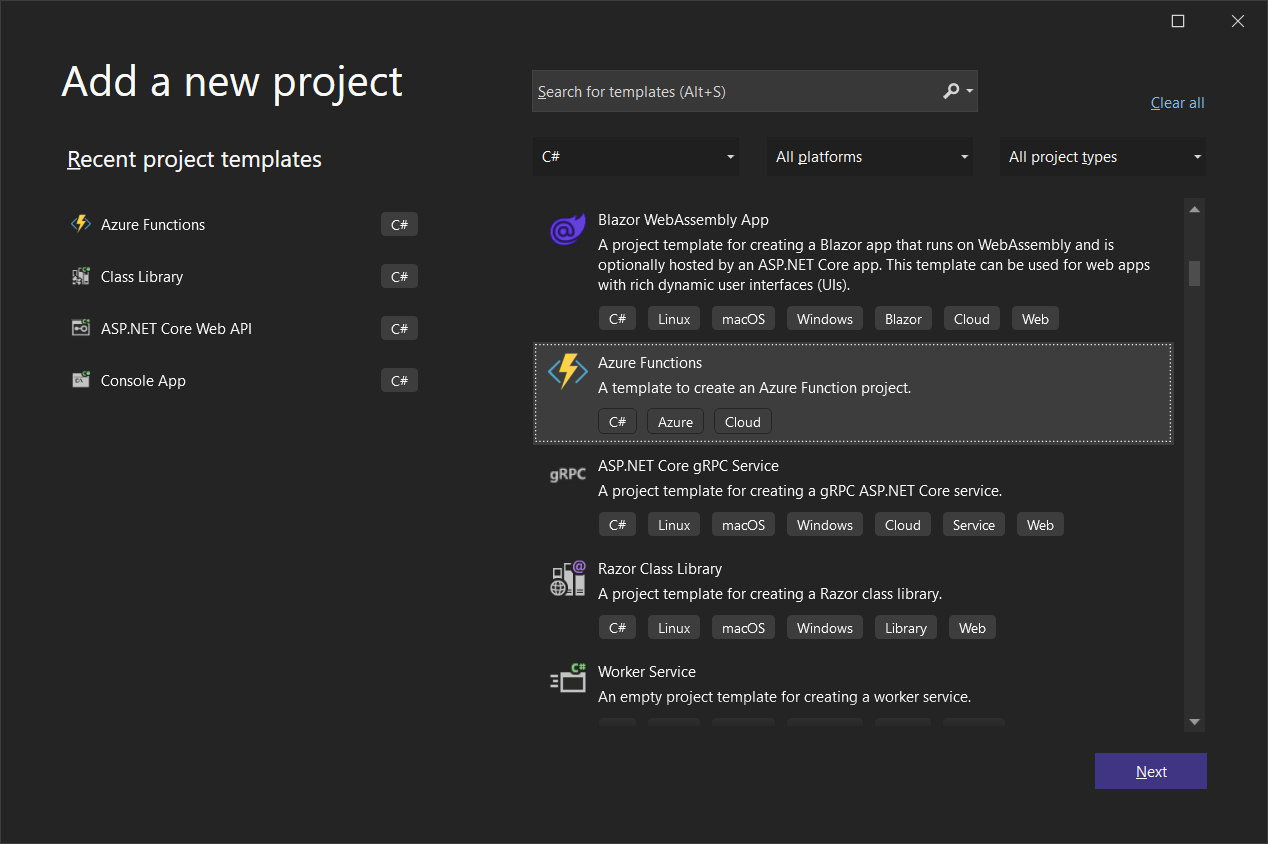
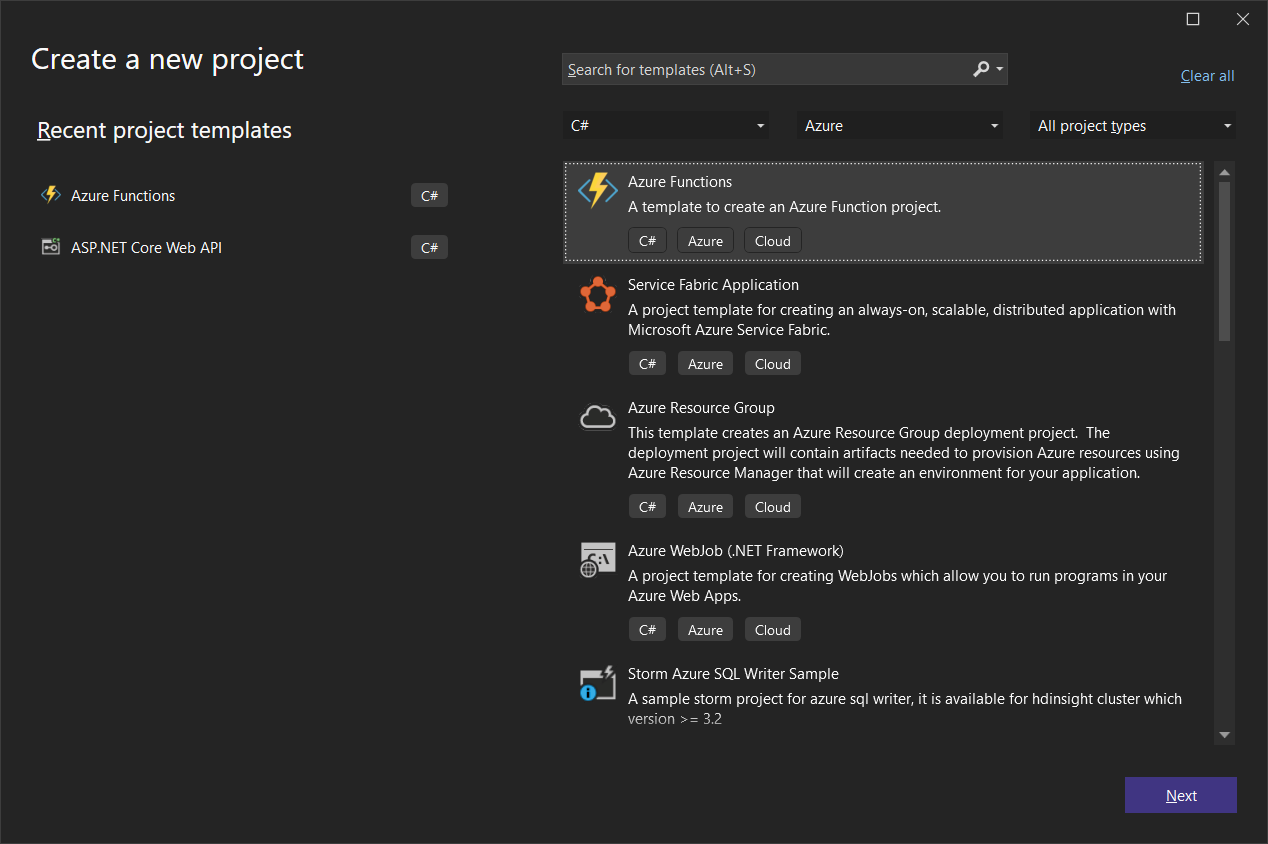
docs

diff --git a/CommandQuery.AzureFunctions.md b/CommandQuery.AzureFunctions.md
@@ -11,8 +11,8 @@
 
 0. Install **Azure development** workload in Visual Studio
    * [Prerequisites](https://docs.microsoft.com/en-us/azure/azure-functions/functions-develop-vs?tabs=in-process#prerequisites)
-1. Create a new **Azure Functions** project
-   * [Tutorial](https://docs.microsoft.com/en-us/azure/azure-functions/functions-create-your-first-function-visual-studio)
+1. Create a new **Azure Functions** (_isolated worker process_) project
+   * [Tutorial](https://learn.microsoft.com/en-us/azure/azure-functions/dotnet-isolated-process-guide)
 2. Install the `CommandQuery.AzureFunctions` package from [NuGet](https://www.nuget.org/packages/CommandQuery.AzureFunctions/)
    * `PM>` `Install-Package CommandQuery.AzureFunctions`
 3. Create functions
@@ -26,17 +26,16 @@
 
 ![Add a new project - Azure Functions](https://github.com/hlaueriksson/CommandQuery/raw/master/vs-new-project-azure-functions-1.png)
 
+![Create a new Azure Functions Application](https://github.com/hlaueriksson/CommandQuery/raw/master/vs-new-project-azure-functions-2.png)
+
 Choose:
 
-* .NET 6 Isolated
+* .NET 6.0 Isolated (Long Term Support)
 * Http trigger
-
-![Create a new Azure Functions Application](https://github.com/hlaueriksson/CommandQuery/raw/master/vs-new-project-azure-functions-2.png)
 
 ## Commands
 
 ```cs
-using System.Threading.Tasks;
 using CommandQuery.AzureFunctions;
 using Microsoft.Azure.Functions.Worker;
 using Microsoft.Azure.Functions.Worker.Http;
@@ -57,7 +56,7 @@ namespace CommandQuery.Sample.AzureFunctions.V6
 
         [Function("Command")]
         public async Task<HttpResponseData> Run([HttpTrigger(AuthorizationLevel.Anonymous, "post", Route = "command/{commandName}")] HttpRequestData req, FunctionContext executionContext, string commandName) =>
-            await _commandFunction.HandleAsync(commandName, req, _logger);
+            await _commandFunction.HandleAsync(commandName, req, _logger, executionContext.CancellationToken);
     }
 }
 ```
@@ -75,7 +74,6 @@ Commands with result:
 ## Queries
 
 ```cs
-using System.Threading.Tasks;
 using CommandQuery.AzureFunctions;
 using Microsoft.Azure.Functions.Worker;
 using Microsoft.Azure.Functions.Worker.Http;
@@ -96,7 +94,7 @@ namespace CommandQuery.Sample.AzureFunctions.V6
 
         [Function("Query")]
         public async Task<HttpResponseData> Run([HttpTrigger(AuthorizationLevel.Anonymous, "get", "post", Route = "query/{queryName}")] HttpRequestData req, FunctionContext executionContext, string queryName) =>
-            await _queryFunction.HandleAsync(queryName, req, _logger);
+            await _queryFunction.HandleAsync(queryName, req, _logger, executionContext.CancellationToken);
     }
 }
 ```
@@ -113,7 +111,7 @@ namespace CommandQuery.Sample.AzureFunctions.V6
 Configuration in `Program.cs`:
 
 ```cs
-using System.Text.Json;
+using CommandQuery;
 using CommandQuery.AzureFunctions;
 using CommandQuery.Sample.Contracts.Commands;
 using CommandQuery.Sample.Contracts.Queries;
@@ -123,37 +121,31 @@ using CommandQuery.Sample.Handlers.Queries;
 using Microsoft.Extensions.DependencyInjection;
 using Microsoft.Extensions.Hosting;
 
-namespace CommandQuery.Sample.AzureFunctions.V6
+var host = new HostBuilder()
+    .ConfigureFunctionsWorkerDefaults()
+    .ConfigureServices(ConfigureServices)
+    .Build();
+
+// Validation
+host.Services.GetService<ICommandProcessor>()!.AssertConfigurationIsValid();
+host.Services.GetService<IQueryProcessor>()!.AssertConfigurationIsValid();
+
+host.Run();
+
+public static partial class Program
 {
-    public class Program
+    public static void ConfigureServices(IServiceCollection services)
     {
-        public static void Main()
-        {
-            var host = new HostBuilder()
-                .ConfigureFunctionsWorkerDefaults()
-                .ConfigureServices(ConfigureServices)
-                .Build();
+        services
+            //.AddSingleton(new JsonSerializerOptions(JsonSerializerDefaults.Web));
 
-            // Validation
-            host.Services.GetService<ICommandProcessor>().AssertConfigurationIsValid();
-            host.Services.GetService<IQueryProcessor>().AssertConfigurationIsValid();
+            // Add commands and queries
+            .AddCommandFunction(typeof(FooCommandHandler).Assembly, typeof(FooCommand).Assembly)
+            .AddQueryFunction(typeof(BarQueryHandler).Assembly, typeof(BarQuery).Assembly)
 
-            host.Run();
-        }
-
-        public static void ConfigureServices(IServiceCollection services)
-        {
-            services
-                //.AddSingleton(new JsonSerializerOptions(JsonSerializerDefaults.Web));
-
-                // Add commands and queries
-                .AddCommandFunction(typeof(FooCommandHandler).Assembly, typeof(FooCommand).Assembly)
-                .AddQueryFunction(typeof(BarQueryHandler).Assembly, typeof(BarQuery).Assembly)
-
-                // Add handler dependencies
-                .AddTransient<IDateTimeProxy, DateTimeProxy>()
-                .AddTransient<ICultureService, CultureService>();
-        }
+            // Add handler dependencies
+            .AddTransient<IDateTimeProxy, DateTimeProxy>()
+            .AddTransient<ICultureService, CultureService>();
     }
 }
 ```
@@ -302,7 +294,5 @@ namespace CommandQuery.Sample.AzureFunctions.V6.Tests
 
 ## Samples
 
-* [CommandQuery.Sample.AzureFunctions.V3](https://github.com/hlaueriksson/CommandQuery/tree/master/samples/CommandQuery.Sample.AzureFunctions.V3)
-* [CommandQuery.Sample.AzureFunctions.V3.Tests](https://github.com/hlaueriksson/CommandQuery/tree/master/samples/CommandQuery.Sample.AzureFunctions.V3.Tests)
 * [CommandQuery.Sample.AzureFunctions.V6](https://github.com/hlaueriksson/CommandQuery/tree/master/samples/CommandQuery.Sample.AzureFunctions.V6)
 * [CommandQuery.Sample.AzureFunctions.V6.Tests](https://github.com/hlaueriksson/CommandQuery/tree/master/samples/CommandQuery.Sample.AzureFunctions.V6.Tests)

diff --git a/CommandQuery.AWSLambda.md b/CommandQuery.AWSLambda.md
@@ -26,23 +26,22 @@
 
 ![New Project - AWS Serverless Application (.NET Core - C#)](https://github.com/hlaueriksson/CommandQuery/raw/master/vs-new-project-aws-serverless-application-1.png)
 
+![New AWS Serverless Application - Empty Serverless Application](https://github.com/hlaueriksson/CommandQuery/raw/master/vs-new-project-aws-serverless-application-2.png)
+
 Choose:
 
 * Empty Serverless Application
 
-![New AWS Serverless Application - Empty Serverless Application](https://github.com/hlaueriksson/CommandQuery/raw/master/vs-new-project-aws-serverless-application-2.png)
-
 ## Commands
 
 ```cs
-using Amazon.Lambda.Core;
 using Amazon.Lambda.APIGatewayEvents;
+using Amazon.Lambda.Core;
 using CommandQuery.AWSLambda;
 using CommandQuery.Sample.Contracts.Commands;
 using CommandQuery.Sample.Handlers;
 using CommandQuery.Sample.Handlers.Commands;
 using Microsoft.Extensions.DependencyInjection;
-using System.Text.Json;
 
 [assembly: LambdaSerializer(typeof(Amazon.Lambda.Serialization.SystemTextJson.DefaultLambdaJsonSerializer))]
 
@@ -83,14 +82,13 @@ Commands with result:
 ## Queries
 
 ```cs
-using Amazon.Lambda.Core;
 using Amazon.Lambda.APIGatewayEvents;
+using Amazon.Lambda.Core;
 using CommandQuery.AWSLambda;
 using CommandQuery.Sample.Contracts.Queries;
 using CommandQuery.Sample.Handlers;
 using CommandQuery.Sample.Handlers.Queries;
 using Microsoft.Extensions.DependencyInjection;
-using System.Text.Json;
 
 namespace CommandQuery.Sample.AWSLambda
 {
@@ -137,6 +135,9 @@ Configuration in `serverless.template`:
     "Command": {
       "Type": "AWS::Serverless::Function",
       "Properties": {
+        "Architectures": [
+          "x86_64"
+        ],
         "Handler": "CommandQuery.Sample.AWSLambda::CommandQuery.Sample.AWSLambda.Command::Handle",
         "Runtime": "dotnet6",
         "CodeUri": "",
@@ -160,6 +161,9 @@ Configuration in `serverless.template`:
     "Query": {
       "Type": "AWS::Serverless::Function",
       "Properties": {
+        "Architectures": [
+          "x86_64"
+        ],
         "Handler": "CommandQuery.Sample.AWSLambda::CommandQuery.Sample.AWSLambda.Query::Handle",
         "Runtime": "dotnet6",
         "CodeUri": "",

diff --git a/CommandQuery.Client.md b/CommandQuery.Client.md
@@ -9,7 +9,7 @@
 Create a `CommandClient` and invoke `PostAsync`:
 
 ```cs
-var commandClient = new CommandClient("https://commandquery-sample-aspnetcore-v5.azurewebsites.net/api/command/");
+var commandClient = new CommandClient("https://commandquerysampleaspnetcorev6.azurewebsites.net/api/command/");
 
 await commandClient.PostAsync(new FooCommand { Value = "en-GB" });
 ```
@@ -25,7 +25,7 @@ var result = await commandClient.PostAsync(new BazCommand { Value = "en-GB" });
 Create a `QueryClient` and invoke `PostAsync` or `GetAsync`:
 
 ```cs
-var queryClient = new QueryClient("https://commandquery-sample-aspnetcore-v5.azurewebsites.net/api/query/");
+var queryClient = new QueryClient("https://commandquerysampleaspnetcorev6.azurewebsites.net/api/query/");
 
 var result = await queryClient.PostAsync(new BarQuery { Id = 1 });
 result = await queryClient.GetAsync(new BarQuery { Id = 1 });

diff --git a/CommandQuery.AspNetCore.md b/CommandQuery.AspNetCore.md
@@ -24,7 +24,7 @@
 
 Choose:
 
-* .NET 6.0 (Long-term support)
+* .NET 6.0 (Long Term Support)
 * Use controllers (uncheck to use minimal APIs)
 
 ## Configuration
@@ -258,7 +258,5 @@ namespace CommandQuery.Sample.AspNetCore.V6.Tests
 
 ## Samples
 
-* [CommandQuery.Sample.AspNetCore.V3](https://github.com/hlaueriksson/CommandQuery/tree/master/samples/CommandQuery.Sample.AspNetCore.V3)
-* [CommandQuery.Sample.AspNetCore.V3.Tests](https://github.com/hlaueriksson/CommandQuery/tree/master/samples/CommandQuery.Sample.AspNetCore.V3.Tests)
 * [CommandQuery.Sample.AspNetCore.V6](https://github.com/hlaueriksson/CommandQuery/tree/master/samples/CommandQuery.Sample.AspNetCore.V6)
 * [CommandQuery.Sample.AspNetCore.V6.Tests](https://github.com/hlaueriksson/CommandQuery/tree/master/samples/CommandQuery.Sample.AspNetCore.V6.Tests)

diff --git a/CommandQuery.GoogleCloudFunctions.md b/CommandQuery.GoogleCloudFunctions.md
@@ -114,7 +114,6 @@ namespace CommandQuery.Sample.GoogleCloudFunctions
 Configuration in `Startup.cs`:
 
 ```cs
-using System.Text.Json;
 using CommandQuery.GoogleCloudFunctions;
 using CommandQuery.Sample.Contracts.Commands;
 using CommandQuery.Sample.Contracts.Queries;
